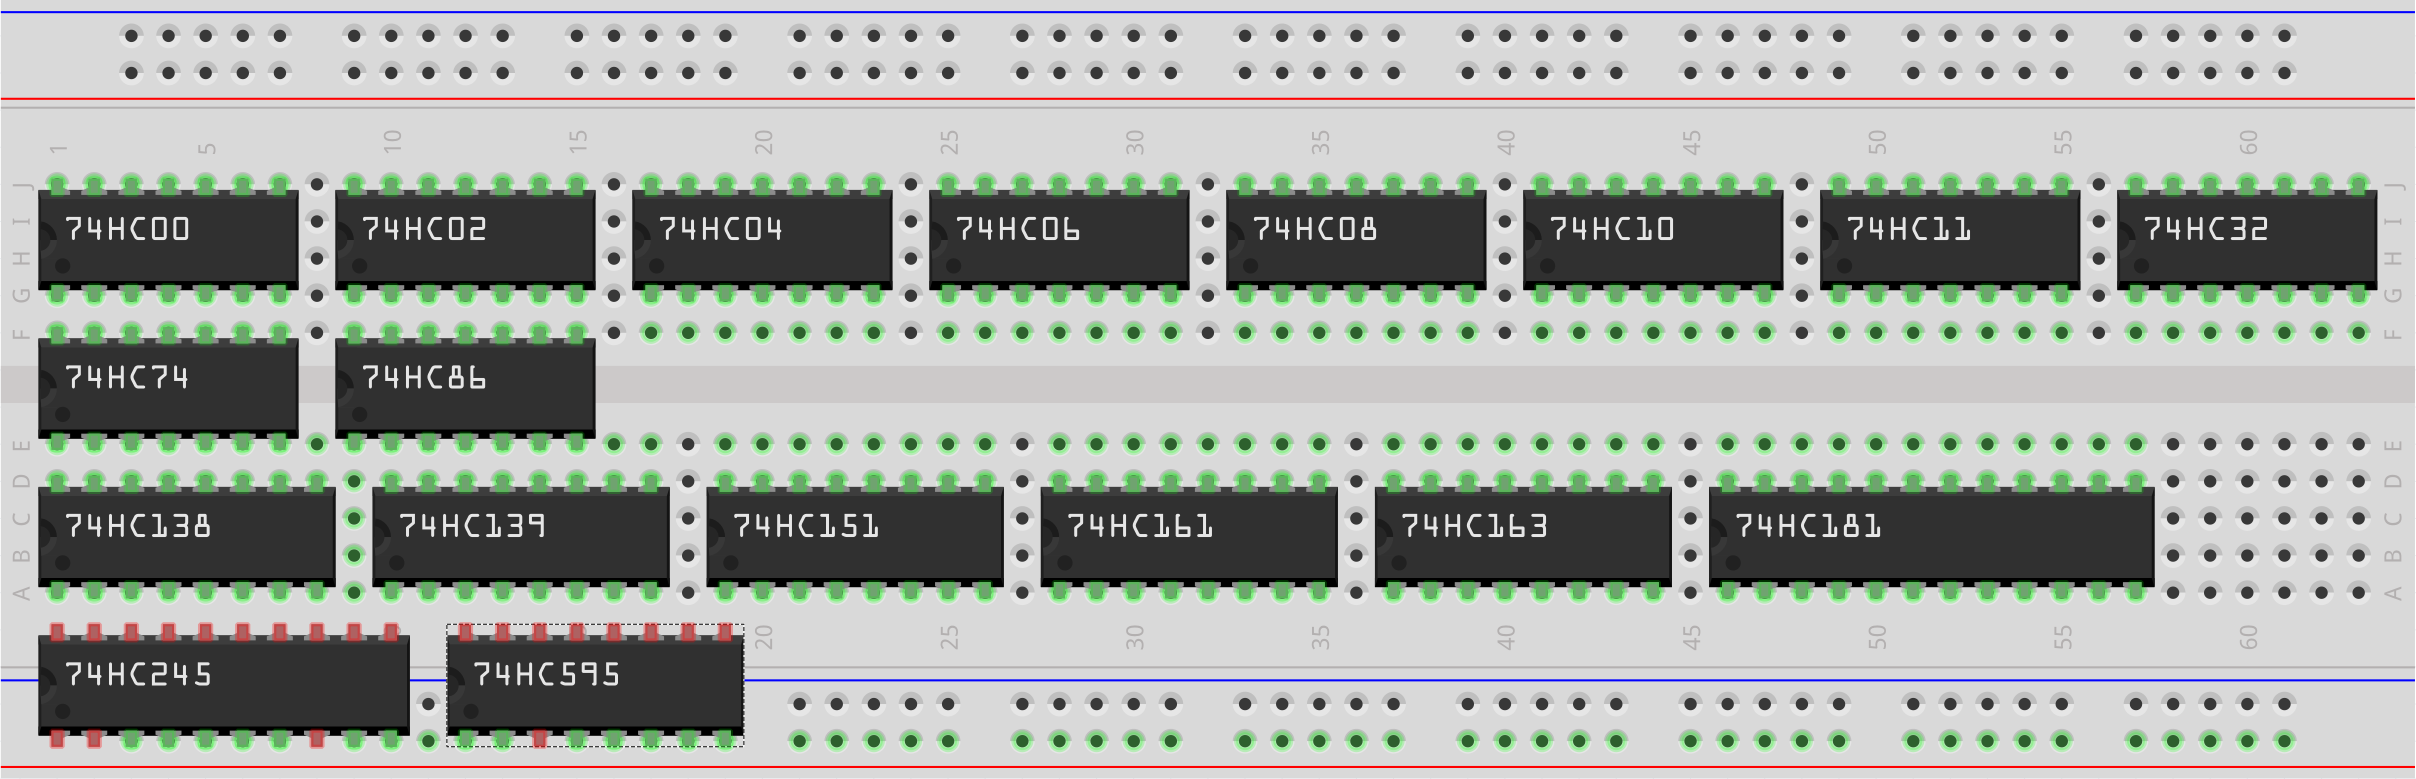
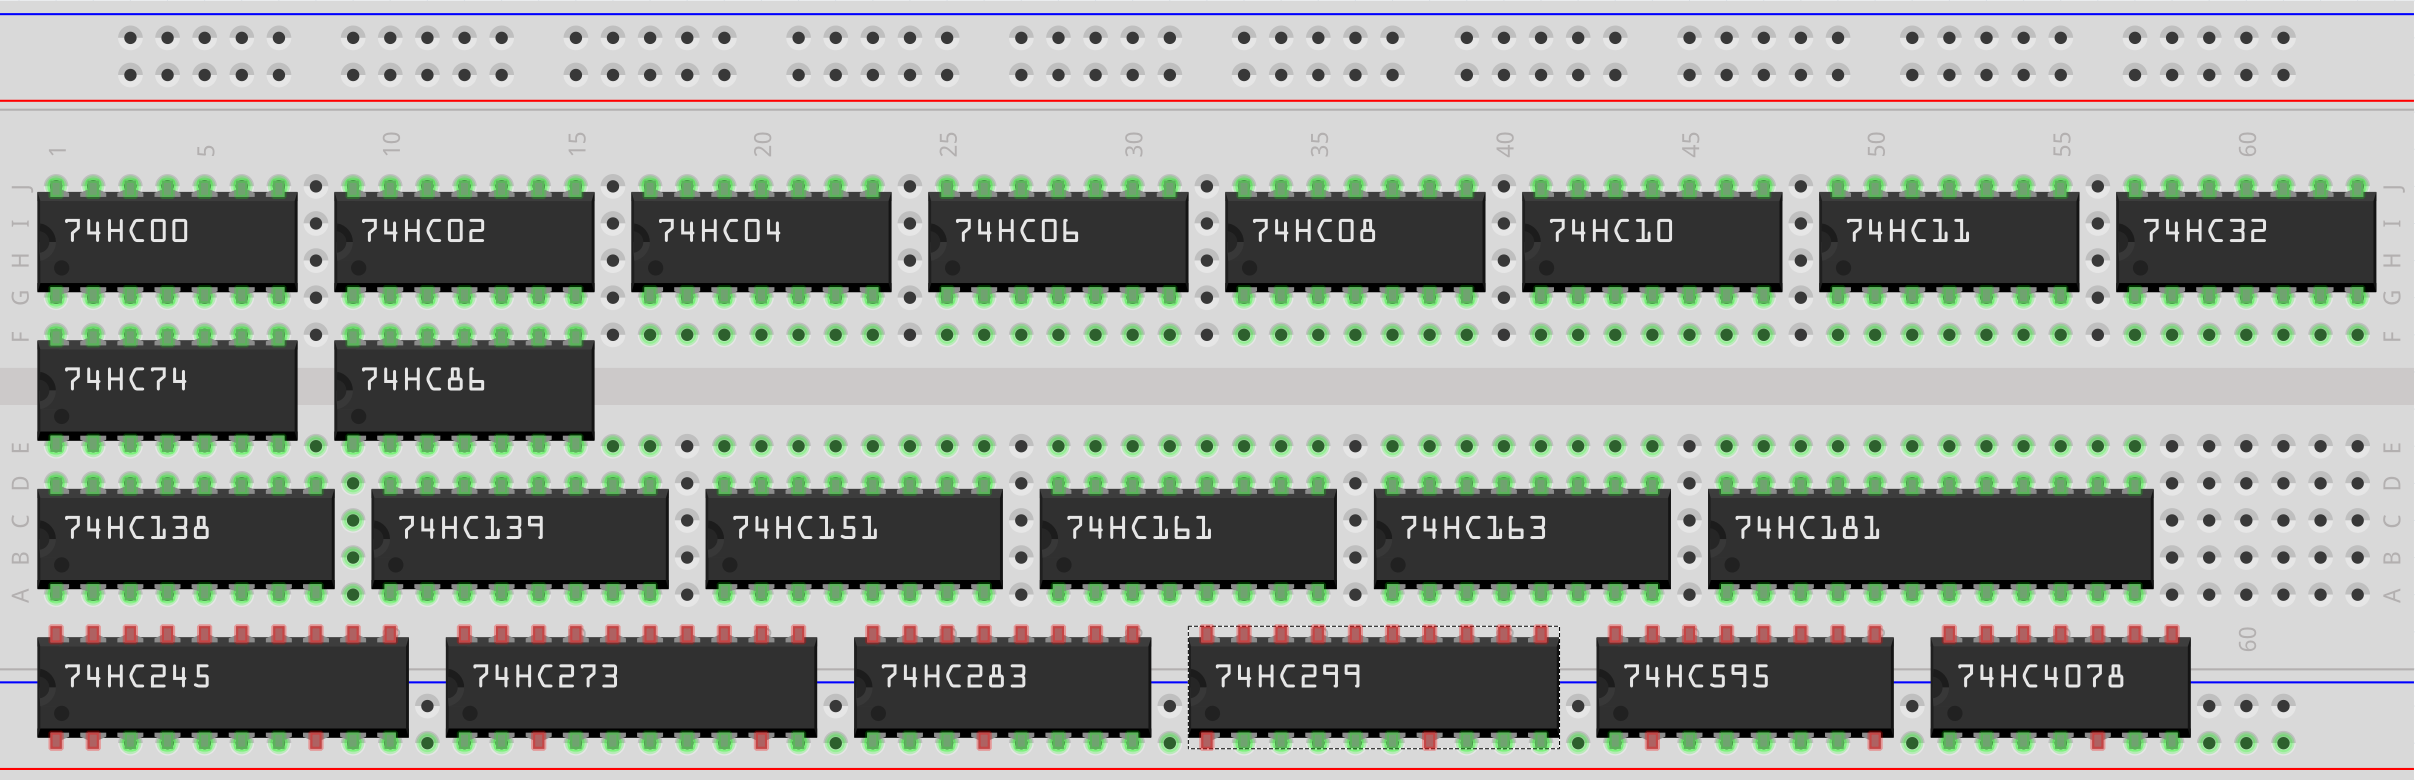
- Added 74HC299, 74HC4078

diff --git a/README.md b/README.md
@@ -21,6 +21,9 @@ Current support:
   - 74HC163 - Presettable synchronous 4-bitbinary counter; synchronous reset
   - 74HC245 - Octal bus tranceiver; 3-state
   - 74HC273 - Octal D-type flip-flop with reset;positive-edge trigger
+  - 74HC283 - 4-bit binary full adder with fast carry
+  - 74HC299 - 8-bit universal shift register; 3-state
   - 74HC595 - 8-bit serial-in, serial or parallel-outshift register with output latches;3-state
+  - 74HC4078 - 8-INPUT NOR/OR GATE
 
   
